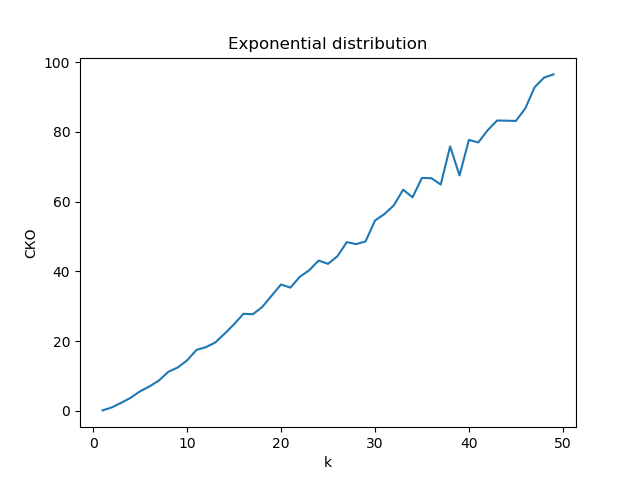
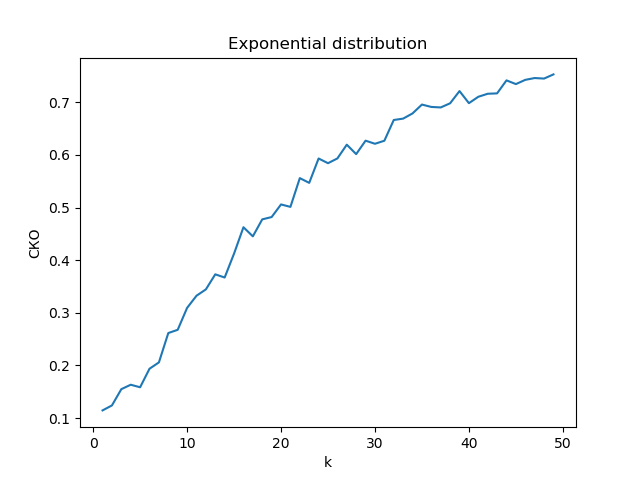
Fix exponential distribution calculation.

diff --git a/hw_3/main.py b/hw_3/main.py
@@ -21,7 +21,7 @@ def calculate_exp(k):
     for val in values:
         mean_exp += val ** k
     mean_exp /= 100
-    return (math.factorial(k) * mean_exp) ** (1 / k)
+    return (mean_exp / math.factorial(k)) ** (1 / k)
 
 
 if __name__ == '__main__':
